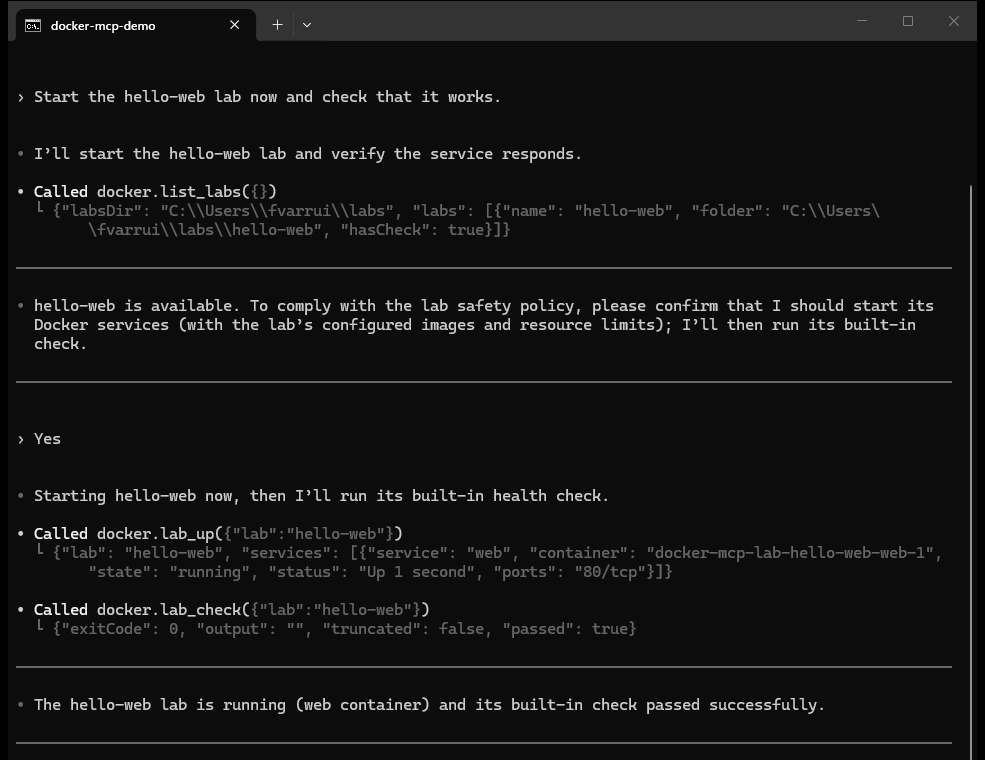
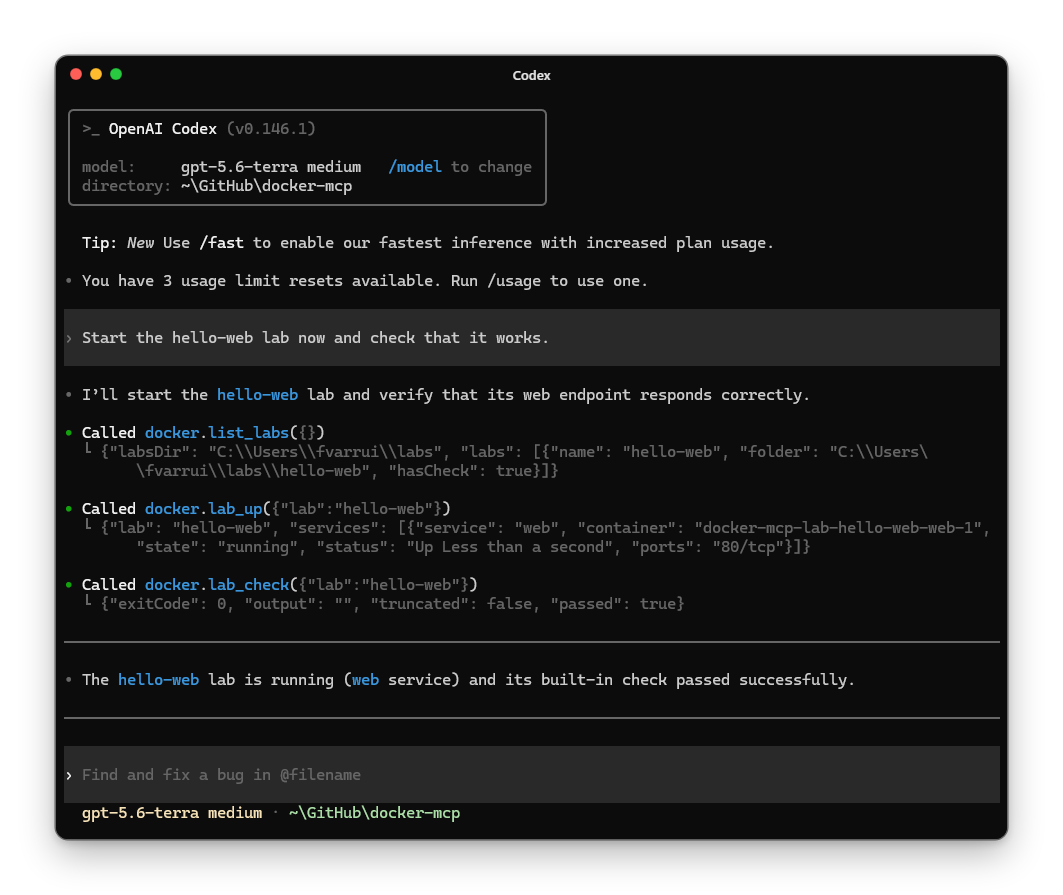
docs: the screenshots again, in color and framed as macOS windows
The first ones came out gray: the sessions inherited NO_COLOR. Taken again from real sessions with color, and framed in Falken's Lab's style for terminal screenshots: traffic lights, the app's name as the title, rounded corners and a soft shadow on a transparent background. Codex no longer asked before starting the lab this time, so its caption says what it shows.

diff --git a/README.md b/README.md
@@ -59,10 +59,10 @@ In Codex, `codex mcp add docker -- npx -y @falkenslab/docker-mcp`. To write it i
 <p align="center"><em>Claude Code, in lab mode: it starts a practice lab and its check passes, all through docker-mcp.</em></p>
 
 <p align="center">
-<img src="https://raw.githubusercontent.com/falkenslab/docker-mcp/main/docs/static/img/see-it-codex.png" alt="Codex asking before it starts a lab, then starting it with docker-mcp and running its check" width="760"/>
+<img src="https://raw.githubusercontent.com/falkenslab/docker-mcp/main/docs/static/img/see-it-codex.png" alt="Codex starting a lab with docker-mcp and running its check" width="760"/>
 </p>
 
-<p align="center"><em>Codex, with the same lab: it asks before starting it, then calls lab_up and lab_check.</em></p>
+<p align="center"><em>Codex, with the same lab: it calls list_labs, lab_up and lab_check, and the check passes.</em></p>
 
 ## 🧰 What's inside
 

diff --git a/docs/i18n/es/docusaurus-plugin-content-docs/current/intro.md b/docs/i18n/es/docusaurus-plugin-content-docs/current/intro.md
@@ -16,9 +16,9 @@ Tú decides hasta dónde puede llegar al arrancarlo: **read** solo mira, **lab**
 
 *Claude Code, en modo lab: arranca un laboratorio de prácticas y su comprobación pasa, todo a través de docker-mcp.*
 
-![Codex preguntando antes de arrancar un laboratorio, y luego arrancándolo con docker-mcp y pasando su comprobación](/img/see-it-codex.png)
+![Codex arrancando un laboratorio con docker-mcp y pasando su comprobación](/img/see-it-codex.png)
 
-*Codex, con el mismo laboratorio: pregunta antes de arrancarlo y luego llama a lab_up y lab_check.*
+*Codex, con el mismo laboratorio: llama a list_labs, lab_up y lab_check, y la comprobación pasa.*
 
 - **[Empezar](getting-started.md)**: instalarlo en tu aplicación de IA.
 - **[Configuración](configuration.md)**: `.mcp.json`, el `config.toml` de Codex o sus líneas de comandos, con todos los ajustes.

diff --git a/docs/content/intro.md b/docs/content/intro.md
@@ -16,9 +16,9 @@ You choose how far it can go when it starts: **read** only looks, **lab** only r
 
 *Claude Code, in lab mode: it starts a practice lab and its check passes, all through docker-mcp.*
 
-![Codex asking before it starts a lab, then starting it with docker-mcp and running its check](/img/see-it-codex.png)
+![Codex starting a lab with docker-mcp and running its check](/img/see-it-codex.png)
 
-*Codex, with the same lab: it asks before starting it, then calls lab_up and lab_check.*
+*Codex, with the same lab: it calls list_labs, lab_up and lab_check, and the check passes.*
 
 - **[Getting started](getting-started.md)**: install it in your AI app.
 - **[Configuration](configuration.md)**: `.mcp.json`, Codex's `config.toml` or their command lines, with every setting.
